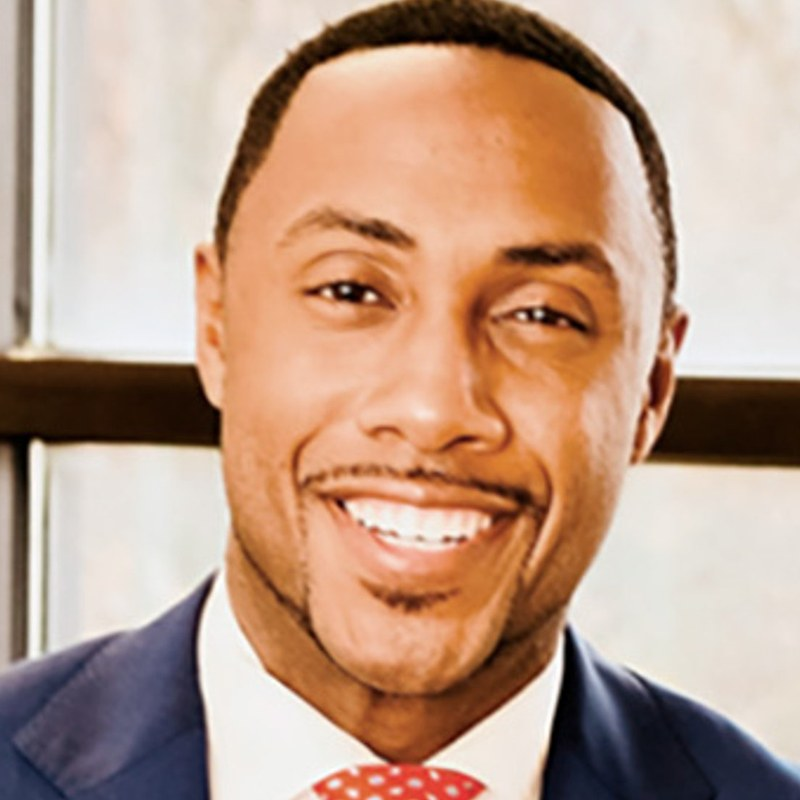
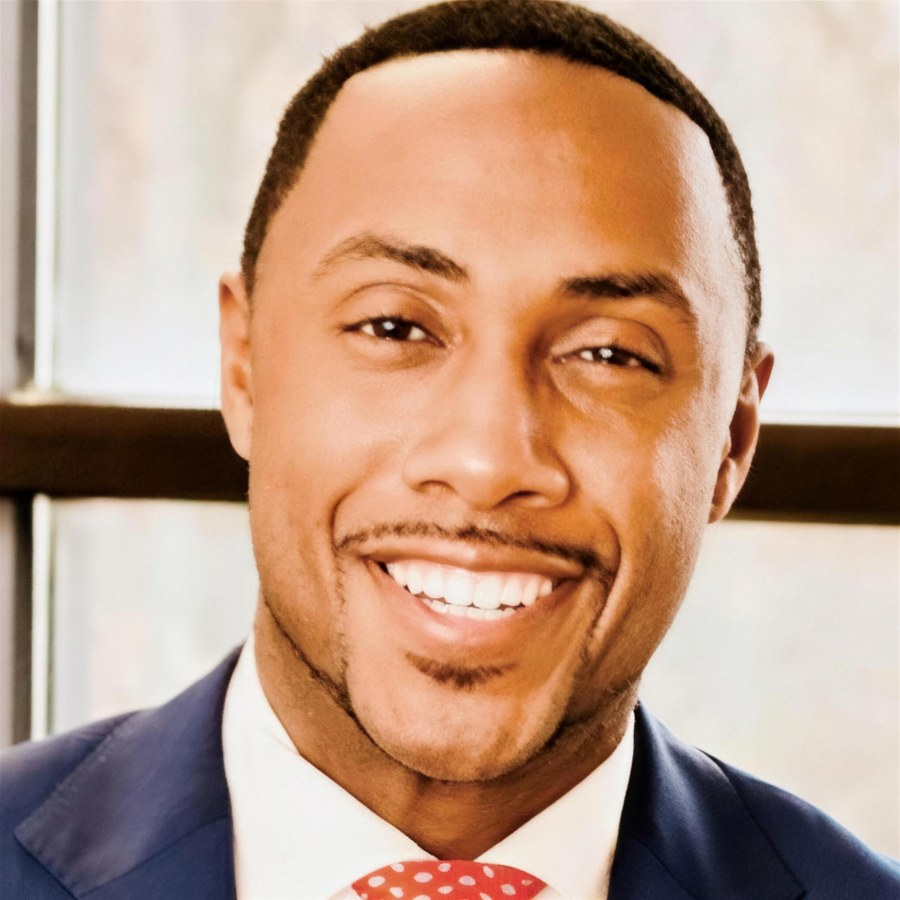
Featured guest photos: real Shalaya headshot + sharpen Ashley Bell
- Add Shalaya Morissette's official headshot (public speaker portrait) and
  wire it into her featured entry, replacing the initials placeholder
- Replace the soft/low-res Ashley D. Bell photo with a 4K-upscaled, resized
  version of the same portrait (sharper, same likeness)

Claude-Session: https://claude.ai/code/session_01AvgYi5KGKVogEKHcn9qGgz

diff --git a/govcon-giants-site/src/data/featuredEpisodes.ts b/govcon-giants-site/src/data/featuredEpisodes.ts
@@ -89,7 +89,7 @@ export const featuredEpisodes: FeaturedEpisode[] = [
     "guest": "Shalaya Morissette",
     "role": "Chief, Minority Business & Workforce Division",
     "agency": "U.S. Department of Energy",
-    "photo": "",
+    "photo": "/faces/shalaya-morissette.jpg",
     "title": "Scoring Major Bid Opportunities in the Department of Energy",
     "date": "2024-02-21",
     "duration": "01:36:41",
